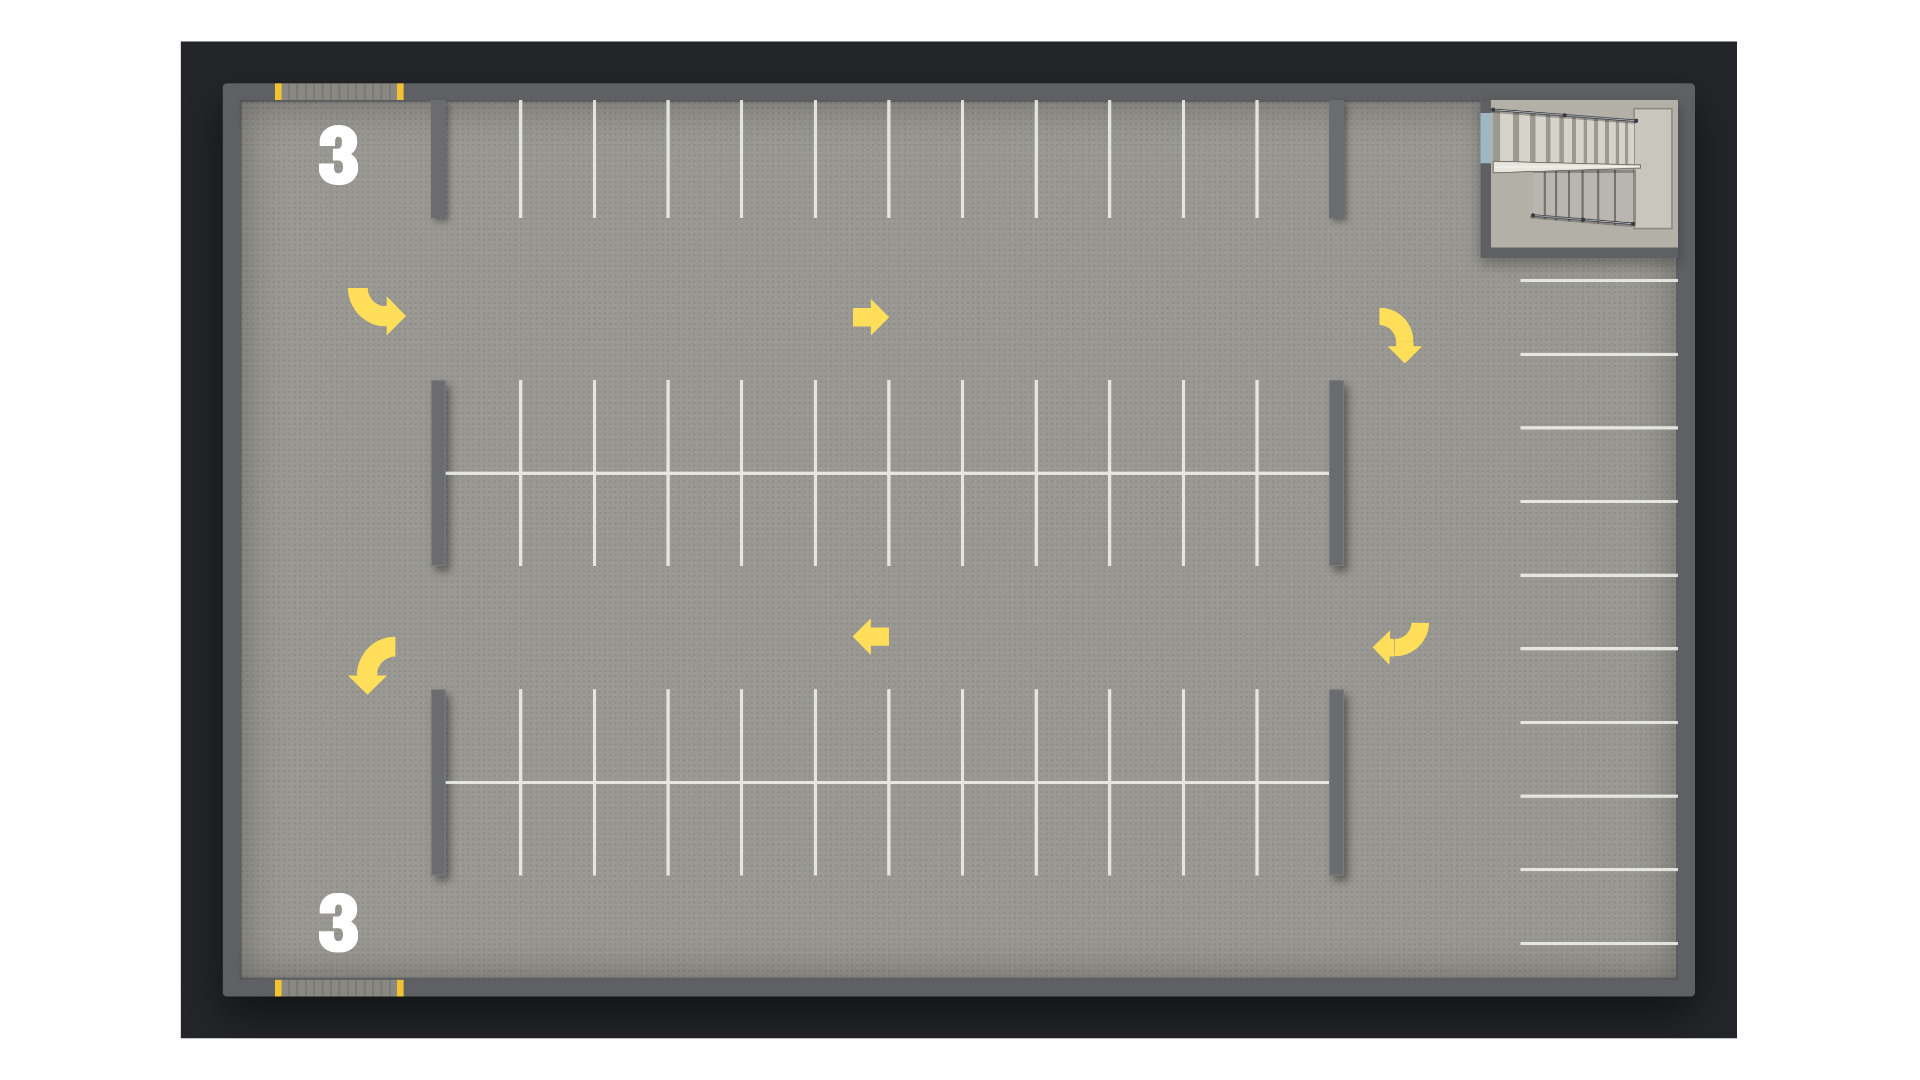
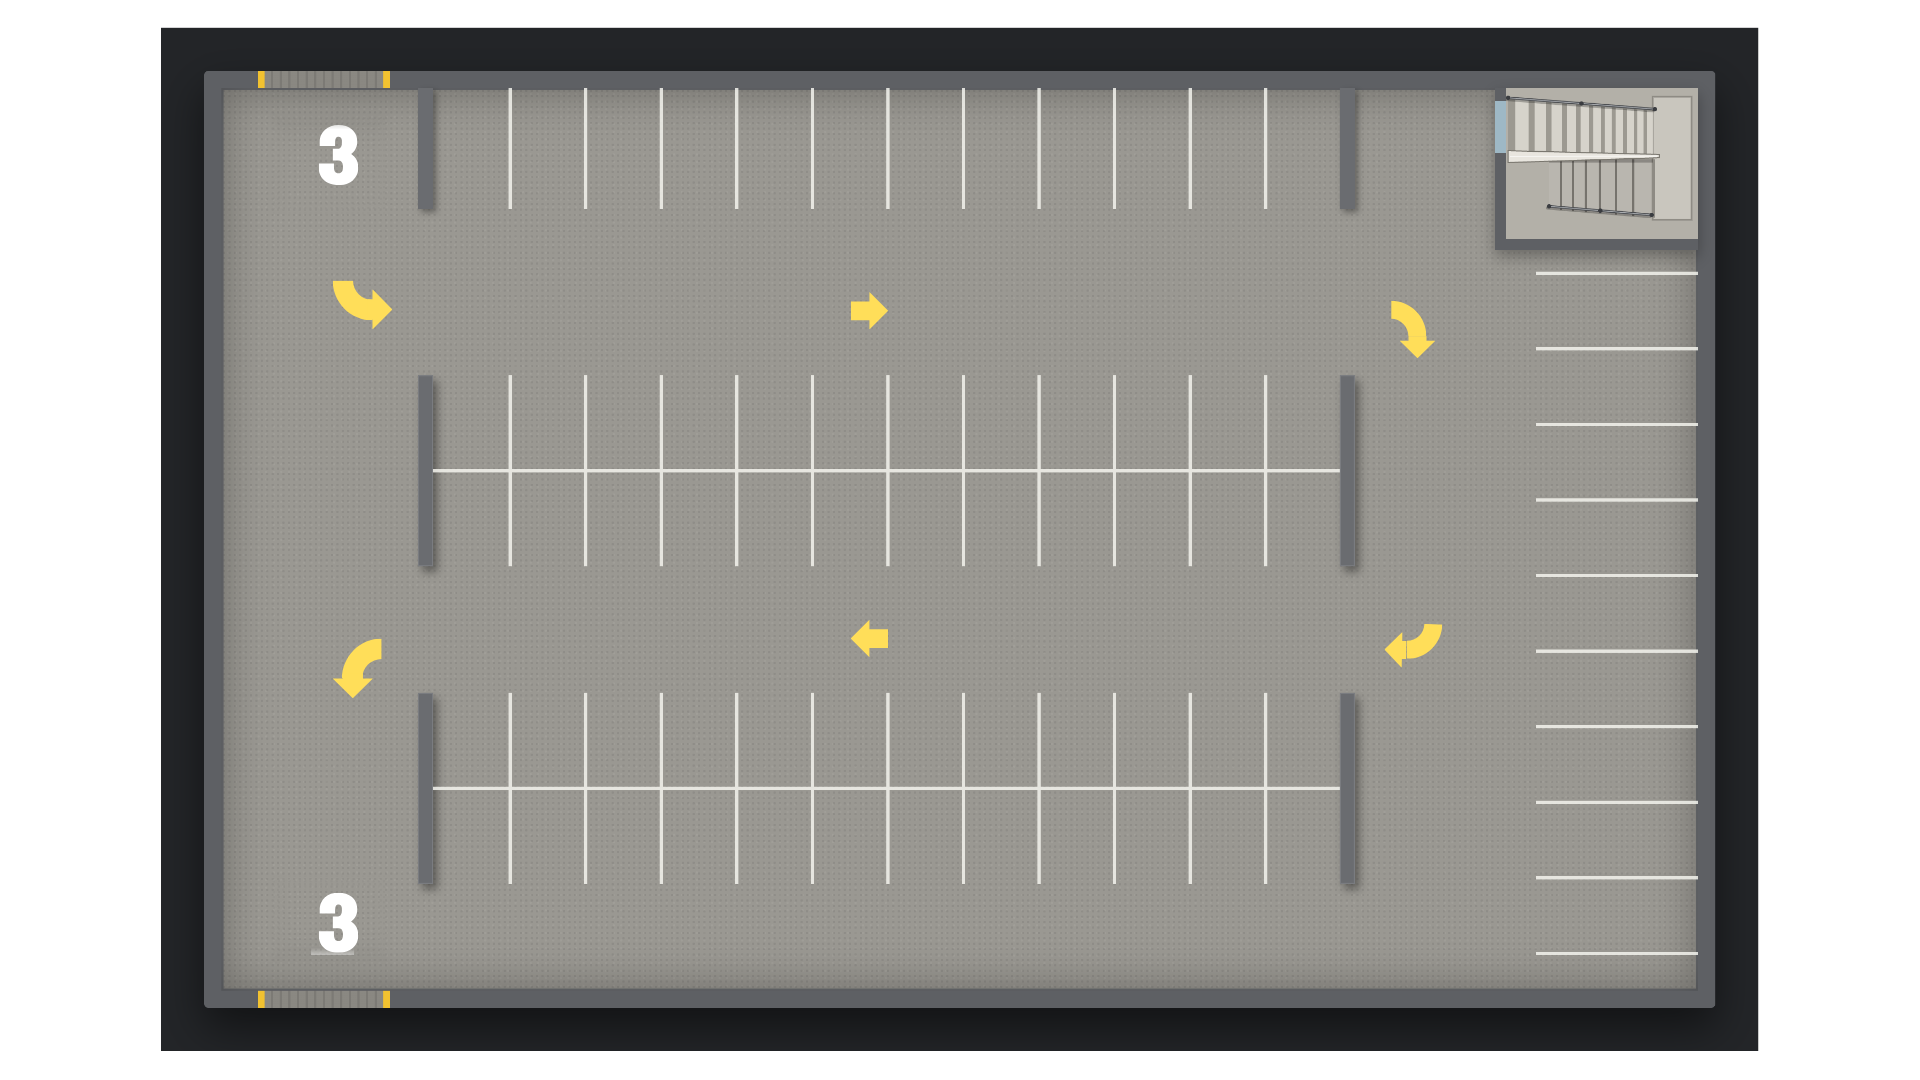
Fix floor 2/3 stall misalignment by reusing floor 1's exact artwork
floor-2.png and floor-3.png were separately-generated images - same
composition as floor 1, but stall positions drifted by a few pixels
between floors, which is why the hand-marked coordinates (drawn
against floor 1's actual pixels) landed slightly off on floors 2/3.

Replaced both with floor 1's image, only compositing in each floor's
own number digit (top-left/bottom-left) from the original artwork,
feathered to avoid a seam. Everything else is now byte-identical to
floor 1, so the same coordinates land exactly right on every floor.

Claude-Session: https://claude.ai/code/session_0168q6cWBfdfgfqU9PdyrioH

diff --git a/Alex's changes.md b/Alex's changes.md
@@ -378,3 +378,9 @@ Replaced the measured-coordinate layout config with the 69 hand-marked boxes (60
 ### Markers: plain "floor-spot" text instead of an unlabeled dot
 
 The colored-dot markers from Round 9/10 were deliberately unlabeled (to match the reference image's clean, label-free look), but with 69 real stalls on screen at once that's not readable - you can't tell which dot is which without hovering each one. Replaced the dot with a small colored label reading **floor-spot**, e.g. `1-1` through `1-69` on floor 1, one continuous count across the main block then the side column (not the real slot code like `1A1`/`1S4`, which still exists underneath and is what's actually stored/used everywhere else - dropdowns, logs, receipts, search). Clicking still opens the correct slot ("1A2 Details" for the box labeled "1-2") - only the on-map label changed. Verified live: all 69 labels render clearly, colored by status, PWD slots still ring blue.
+
+### Fixed: floor 2 and 3 were slightly misaligned
+
+The coordinates were hand-marked against floor 1's actual image, but floors 2 and 3 are *separately generated* images - the overall composition matches, but stall positions shift by a handful of pixels from floor to floor (confirmed earlier, Round 9's measurement notes). That's exactly what caused the slight drift you flagged on floors 2/3.
+
+Fixed properly this time, not just approximated: `floor-2.png` and `floor-3.png` are now floor 1's actual image with only the floor-number digit (top-left and bottom-left) swapped in from each floor's original artwork - composited in Python with a feathered paste so there's no visible seam (checked closely; the faint line under each digit is a drop-shadow baked into floor 1's own original art, not an artifact). Everything else - every divider, tick mark, arrow, the elevator icon - is now byte-identical across all three floor images, so the same hand-marked coordinates land exactly right on every floor. Verified live: switched between all three floors, every one of the 69 labels sits precisely on its stall with no drift, only the corner digit and status data change.
